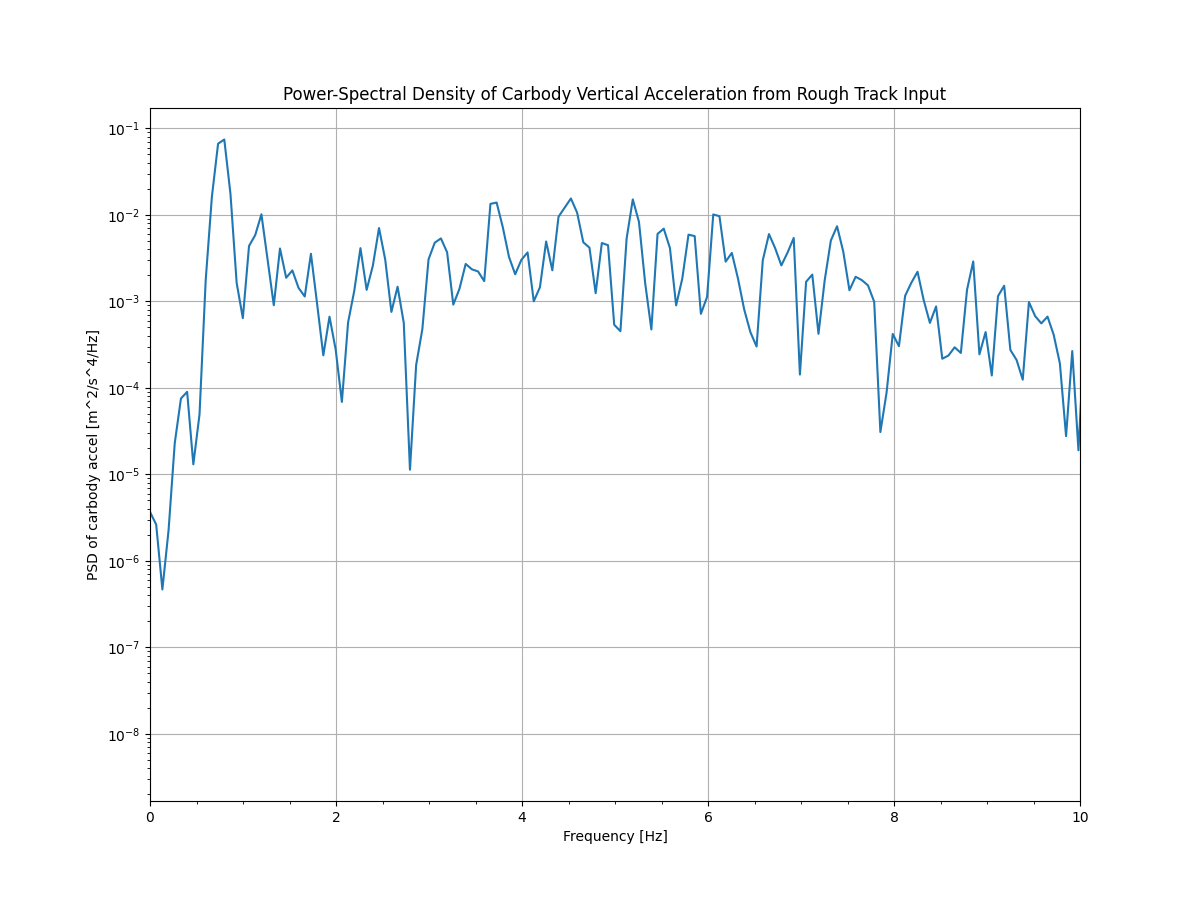
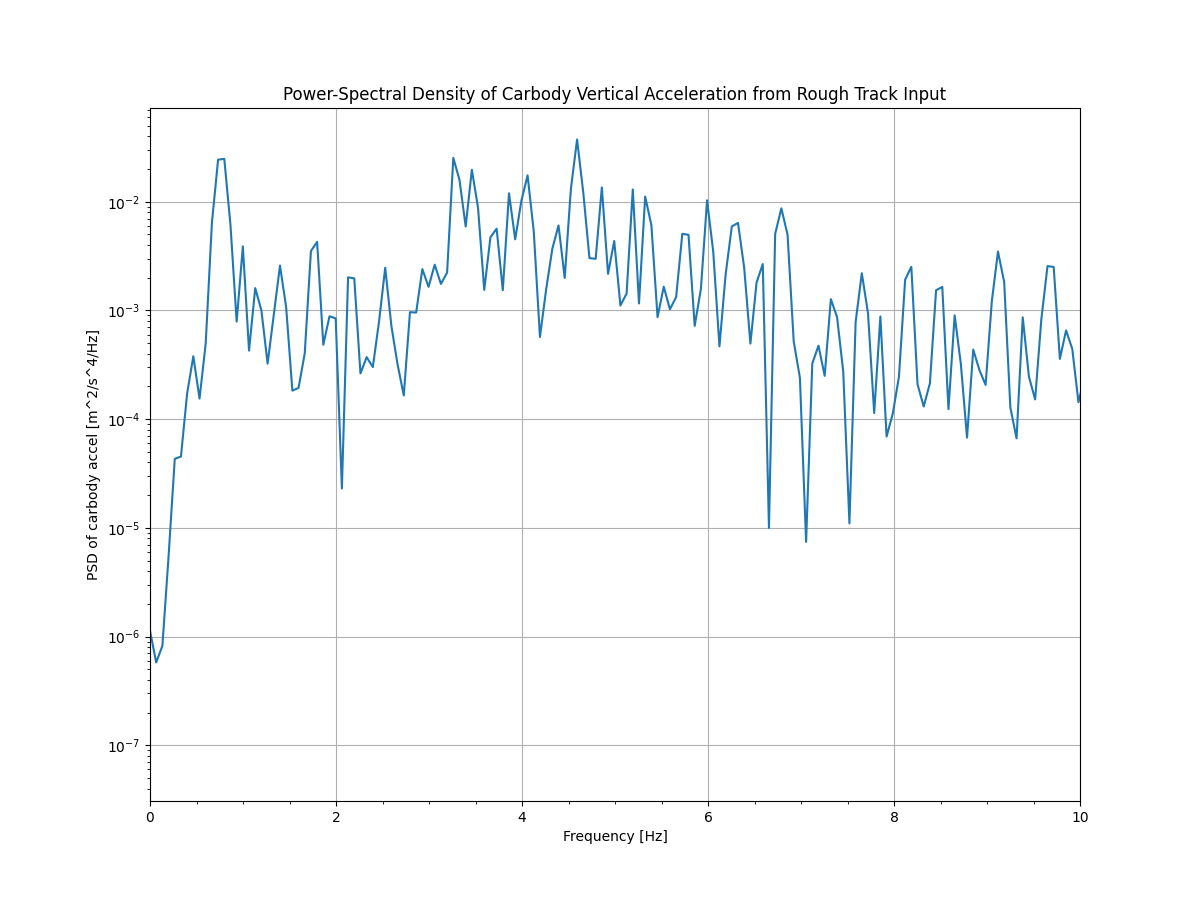
Completed Skyhook Control

diff --git a/src/simulation.py b/src/simulation.py
@@ -17,15 +17,20 @@ from scipy.signal import welch
 import numpy as np
 import scipy.signal as sig
 import matplotlib.pyplot as plt
-from model import A, B, b_1, M, C, K
+from model import A, B, b_1, M, C, K, l_R, assemble_A_matrix
 from track import step_input, sin_input, rough_input
+from controller import skyhook_damping_controller
 
-# Simulation Parameters
+
+# =====================================
+#         Simulation Parameters
+# =====================================
+
 x0 = np.zeros(14)
 
 start = 0 # [s]
 stop = 15 # [s]
-steps = 600
+steps = 1000
 time = np.linspace(start,stop,steps)
 
 # Step Input Parameters
@@ -52,16 +57,68 @@ freq_L, freq_R = 0.75, 0.75     # Left and Right frequencies [Hz]
 ### Uncomment below to use rough track response
 U = rough_input(time, start, stop)
 
-# Output Definitions
-C = np.eye(14)
-D = np.zeros((14,8))
 
-# State Space
-sys = sig.StateSpace(A,B,C,D)
-t, y, x = sig.lsim(sys, U, time)
+# # =====================================
+# #             State Space
+# # =====================================
+
+# # Output Definitions
+# C = np.eye(14)
+# D = np.zeros((14,8))
+
+# sys = sig.StateSpace(A,B,C,D)
+# t, y, x = sig.lsim(sys, U, time)
 
 
-# Solve for Acceleration
+# =====================================
+#             ODE-Solver
+# =====================================
+
+def rk4_step(f, t, x, dt): # Source - ChatGPT
+    k1 = f(t, x)
+    k2 = f(t + 0.5*dt, x + 0.5*dt*k1)
+    k3 = f(t + 0.5*dt, x + 0.5*dt*k2)
+    k4 = f(t + dt, x + dt*k3)
+    return x + (dt/6.0)*(k1 + 2*k2 + 2*k3 + k4)
+
+def make_u_t(time, U):
+    # simple linear interpolation for each input channel
+    def u_t(t):
+        return np.array([np.interp(t, time, U[:, j]) for j in range(U.shape[1])])
+    return u_t
+
+# Skyhook Simulator
+def simulate_skyhook(U, time=time, x0=x0):
+    u_t = make_u_t(time, U)
+
+    X = np.zeros((len(time), 14))
+    X[0] = x0
+
+    def xdot(t, x):
+        q_dot = x[7:]
+
+        C_sky = skyhook_damping_controller(q_dot)
+        A = assemble_A_matrix(C = C_sky)
+
+        x_dot = A @ x + B @ u_t(t)
+
+        return x_dot
+
+    for i in range(len(time) - 1):
+        dt = time[i + 1] - time[i]
+        X[i+1] = rk4_step(xdot, time[i], X[i], dt)
+
+    return X
+    
+x = simulate_skyhook(U)
+
+
+
+# ===============================
+#        RMS-Acceleration
+# ===============================
+
+# Solve for Vertical Acceleration
 q = x[:, 0:7]
 q_dot = x[:, 7:14]
 
@@ -69,33 +126,60 @@ x_dot = x @ A.T + U @ B.T
 q_ddot = x_dot[:, 7:14]
 a_z = q_ddot[:, 0]  
 
-# Get PSD and Plot
-fs = 1 / (t[1] - t[0])
+# Solve for Front Right Suspension Travel
+ds = (x[:, 0] + l_R * x[:, 1] + b_1 * x[:, 2]) - x[:, 3]
 
-f, Paa = welch(a_z, fs=fs, nperseg=4096, detrend='constant')
+
+# Solve for RMS Vertical Acceleration
+t0 = int(0.3 * steps)
+az_ss = a_z[t0:] # Start calculations after vibrations achieved steady state
+ds_ss = ds[t0:]
+
+az_rms = np.sqrt((1 / len(az_ss)) * np.mean(az_ss**2))
+ds_rms = np.sqrt((1 / len(ds_ss)) * np.mean(ds_ss**2))
+
+
+# Print RMS Acceleration and Suspension Travel
+print(f"RMS Carbody Vertical Acceleration: {az_rms:.4f} m/s²")
+print(f"RMS Suspension Travel: {ds_rms:.4f} m")
+
+
+
+# # ====================================
+# #            Get PSD Plot
+# # ====================================
+
+# fs = 1 / (t[1] - t[0])
+
+# f, Paa = welch(a_z, fs=fs, nperseg=4096, detrend='constant')
+
+# plt.figure(figsize=(12,9))
+# plt.semilogy(f, Paa)
+# plt.xlim(0, 10)     # rail vehicle comfort is low-frequency
+# plt.xlabel("Frequency [Hz]")
+# plt.ylabel("PSD of carbody accel [m^2/s^4/Hz]")
+# plt.title("Power-Spectral Density of Carbody Vertical Acceleration from Rough Track Input")
+# plt.minorticks_on()
+# plt.grid()
+# plt.savefig('figures/psd_az_3.png')
+# plt.show()
+
+
+
+# =====================================
+#           Plotting Solutions
+# =====================================
 
 plt.figure(figsize=(12,9))
-plt.semilogy(f, Paa)
-plt.xlim(0, 10)     # rail vehicle comfort is low-frequency
-plt.xlabel("Frequency [Hz]")
-plt.ylabel("PSD of carbody accel [m^2/s^4/Hz]")
-plt.title("Power-Spectral Density of Carbody Vertical Acceleration from Rough Track Input")
-plt.minorticks_on()
-plt.grid()
-plt.savefig('figures/psd_az_3.png')
-plt.show()
-
-
-# # General Plotting
-# plt.figure(figsize=(12,9))
-# plt.plot(t,y[:, 0], color='blue',linewidth = 3, label='Carbody Bounce')
-# # plt.plot(t,y[:, 1], color='green',linewidth = 3, label='Carbody Roll')
-# # plt.plot(t,y[:, 2], color='orange',linewidth = 3, label='Carbody Pitch')
-# # plt.plot(t,((y[:, 0] + b_1 * y[:, 2]) - y[:, 3]), color='red', linewidth = 3, label = 'Front Suspension Travel')
+# plt.plot(t,x[:, 0], color='blue',linewidth = 3, label='Carbody Bounce')
+# plt.plot(t,x[:, 1], color='green',linewidth = 3, label='Carbody Roll')
+# plt.plot(t,x[:, 2], color='orange',linewidth = 3, label='Carbody Pitch')
+# plt.plot(t,((x[:, 0] + b_1 * x[:, 2]) - x[:, 3]), color='red', linewidth = 3, label = 'Front Suspension Travel')
 # plt.plot(t,q_ddot[:, 0], color='yellow',linewidth = 3, label='Carbody Bounce Acceleration')
-# plt.title("Railcar Response")
-# plt.xlabel("Time [s]")
-# plt.ylabel("Y - Meters or Radians")
-# plt.legend()
-# plt.grid()
-# plt.show()
+plt.plot(time,x[:,0], color='purple', linewidth = 3, label = 'Carbody Bounce Acceleration - Skyhook')
+plt.title("Railcar Response")
+plt.xlabel("Time [s]")
+plt.ylabel("Y - Meters or Radians")
+plt.legend()
+plt.grid()
+plt.show()

diff --git a/src/model.py b/src/model.py
@@ -9,13 +9,16 @@ Author:
 Date:
     January 7, 2026
 
-Status: IN PROGRESS    
+Status: FINISHED
 
 """
 
 import numpy as np
 
-# Parameters
+
+# ==========================
+#         Parameters
+# ==========================
 
 v = 310*3600/1000 # Railcar velocity [m/s]
 # v = 800*3600/1000
@@ -40,12 +43,16 @@ c_sL1, c_sR1, c_sL2, c_sR2 = 2.0e4, 2.0e4, 2.0e4, 2.0e4 # Secondary suspension d
 z_gL1, z_gR1, z_gL2, z_gR2 = 0, 0, 0, 0 # Track irregularities at wheel-rail contacts [m]
 
 # Define Coordinates
-# x_c, phi_c, theta_c: Carbody vertical, roll, pitch
-# x_b1, phi_b1: Front bogie vertical, roll
-# x_b2, phi_b2: Rear bogie vertical, roll
-# q = [x_c, phi_c, theta_c, x_b1, phi_b1, x_b2, phi_b2]
+# z_c, phi_c, theta_c: Carbody vertical, roll, pitch
+# z_b1, phi_b1: Front bogie vertical, roll
+# z_b2, phi_b2: Rear bogie vertical, roll
+# q = [z_c, phi_c, theta_c, z_b1, phi_b1, z_b2, phi_b2]
 
-# Matrix Construction
+
+
+# ==============================
+#       Matrix Construction
+# ==============================
 
 M = np.array([[m_c, 0, 0, 0, 0, 0, 0],
               [0, I_cx, 0, 0, 0, 0, 0],
@@ -57,16 +64,17 @@ M = np.array([[m_c, 0, 0, 0, 0, 0, 0],
 
 M_inv = np.linalg.inv(M)
 
-C = np.array([[c_sL1 + c_sR1 + c_sL2 + c_sR2, -l_L*(c_sL1 + c_sL2) + l_R*(c_sR1 + c_sR2), b_1*(c_sL1 + c_sR1) - b_2*(c_sL2 + c_sR2), -(c_sL1 + c_sR1), c_sL1*l_L - c_sR1*l_R, -(c_sL2 + c_sR2), c_sL2*l_L - c_sR2*l_R],
-              [-l_L*(c_sL1 + c_sL2) + l_R*(c_sR1 + c_sR2), l_L**2*(c_sL1 + c_sL2) + l_R**2*(c_sR1 + c_sR2), b_1*(-l_L*c_sL1 + l_R*c_sR1) - b_2*(-l_L*c_sL2 + l_R*c_sR2), l_L*c_sL1 - l_R*c_sR1, -l_L**2*c_sL1 - l_R**2*c_sR1, l_L*c_sL2 - l_R*c_sR2, -l_L**2*c_sL2 - l_R**2*c_sR2],
-              [b_1*(c_sL1 + c_sR1) - b_2*(c_sL2 + c_sR2), b_1*(-l_L*c_sL1 + l_R*c_sR1) - b_2*(-l_L*c_sL2 + l_R*c_sR2), b_1**2*(c_sL1 + c_sR1) + b_2**2*(c_sL2 + c_sR2), -b_1*(c_sL1 + c_sR1), b_1*(l_L*c_sL1 - l_R*c_sR1), b_2*(c_sL2 + c_sR2), b_2*(l_L*c_sL2 - l_R*c_sR2)],
-              [-(c_sL1 + c_sR1), l_L*c_sL1 - c_sR1*l_R, -b_1*(c_sL1 + c_sR1), (c_sL1 + c_sR1 + c_pL1 + c_pR1), -l_L*(c_sL1+c_pL1) + l_R*(c_sR1 + c_pR1), 0, 0],
-              [c_sL1*l_L - c_sR1*l_R, -l_L**2*c_sL1 - l_R**2*c_sR1, b_1*(l_L*c_sL1 - l_R*c_sR1), -l_L*(c_sL1+c_pL1) + l_R*(c_sR1 + c_pR1), l_L**2*(c_sL1 + c_pL1) + l_R**2*(c_sR1 + c_pR1), 0, 0],
-              [-(c_sL2 + c_sR2), l_L*c_sL2 - c_sR2*l_R, b_2*(c_sL2 + c_sR2), 0, 0, (c_sL2 + c_sR2 + c_pL2 + c_pR2), -l_L*(c_sL2 + c_pL2) + l_R*(c_sR2 + c_pR2)],
-              [c_sL2*l_L - c_sR2*l_R, -l_L**2*c_sL2 - l_R**2*c_sR2, b_2*(l_L*c_sL2 - l_R*c_sR2), 0, 0, -l_L*(c_sL2 + c_pL2) + l_R*(c_sR2 + c_pR2), l_L**2*(c_sL2 + c_pL2) + l_R**2*(c_sR2 + c_pR2)]])
+def assemble_C_matrix(c_sL1=c_sL1, c_sR1=c_sR1, c_sL2=c_sL2, c_sR2=c_sR2):
+    C = np.array([[c_sL1 + c_sR1 + c_sL2 + c_sR2, -l_L*(c_sL1 + c_sL2) + l_R*(c_sR1 + c_sR2), b_1*(c_sL1 + c_sR1) - b_2*(c_sL2 + c_sR2), -(c_sL1 + c_sR1), c_sL1*l_L - c_sR1*l_R, -(c_sL2 + c_sR2), c_sL2*l_L - c_sR2*l_R],
+                [-l_L*(c_sL1 + c_sL2) + l_R*(c_sR1 + c_sR2), l_L**2*(c_sL1 + c_sL2) + l_R**2*(c_sR1 + c_sR2), b_1*(-l_L*c_sL1 + l_R*c_sR1) - b_2*(-l_L*c_sL2 + l_R*c_sR2), l_L*c_sL1 - l_R*c_sR1, -l_L**2*c_sL1 - l_R**2*c_sR1, l_L*c_sL2 - l_R*c_sR2, -l_L**2*c_sL2 - l_R**2*c_sR2],
+                [b_1*(c_sL1 + c_sR1) - b_2*(c_sL2 + c_sR2), b_1*(-l_L*c_sL1 + l_R*c_sR1) - b_2*(-l_L*c_sL2 + l_R*c_sR2), b_1**2*(c_sL1 + c_sR1) + b_2**2*(c_sL2 + c_sR2), -b_1*(c_sL1 + c_sR1), b_1*(l_L*c_sL1 - l_R*c_sR1), b_2*(c_sL2 + c_sR2), b_2*(l_L*c_sL2 - l_R*c_sR2)],
+                [-(c_sL1 + c_sR1), l_L*c_sL1 - c_sR1*l_R, -b_1*(c_sL1 + c_sR1), (c_sL1 + c_sR1 + c_pL1 + c_pR1), -l_L*(c_sL1+c_pL1) + l_R*(c_sR1 + c_pR1), 0, 0],
+                [c_sL1*l_L - c_sR1*l_R, -l_L**2*c_sL1 - l_R**2*c_sR1, b_1*(l_L*c_sL1 - l_R*c_sR1), -l_L*(c_sL1+c_pL1) + l_R*(c_sR1 + c_pR1), l_L**2*(c_sL1 + c_pL1) + l_R**2*(c_sR1 + c_pR1), 0, 0],
+                [-(c_sL2 + c_sR2), l_L*c_sL2 - c_sR2*l_R, b_2*(c_sL2 + c_sR2), 0, 0, (c_sL2 + c_sR2 + c_pL2 + c_pR2), -l_L*(c_sL2 + c_pL2) + l_R*(c_sR2 + c_pR2)],
+                [c_sL2*l_L - c_sR2*l_R, -l_L**2*c_sL2 - l_R**2*c_sR2, b_2*(l_L*c_sL2 - l_R*c_sR2), 0, 0, -l_L*(c_sL2 + c_pL2) + l_R*(c_sR2 + c_pR2), l_L**2*(c_sL2 + c_pL2) + l_R**2*(c_sR2 + c_pR2)]])
+    return C
 
-
-
+C = assemble_C_matrix()
 
 # Create K matrix similarly, changing c's to k's
 K = np.array([[k_sL1 + k_sR1 + k_sL2 + k_sR2, -l_L*(k_sL1 + k_sL2) + l_R*(k_sR1 + k_sR2), b_1*(k_sL1 + k_sR1) - b_2*(k_sL2 + k_sR2), -(k_sL1 + k_sR1), k_sL1*l_L - k_sR1*l_R, -(k_sL2 + k_sR2), k_sL2*l_L - k_sR2*l_R],
@@ -85,7 +93,6 @@ G_z_dot = np.array([[0,0,0,0],
               [-l_L*c_pL1,l_R*c_pR1,0,0],
               [0,0,c_pL2,c_pR2],
               [0,0,-l_L*c_pL2,l_R*c_pR2]])
-
 
 G_z = np.array([[0,0,0,0],
               [0,0,0,0],
@@ -135,3 +142,4 @@ def assemble_B_matrix(M_inv=M_inv,G_z=G_z,G_z_dot=G_z_dot):
     return B
 
 B = assemble_B_matrix()
+

diff --git a/src/controller.py b/src/controller.py
@@ -12,23 +12,83 @@ Status: IN PROGRESS
 
 """
 
+import numpy as np
+from model import c_sL1, b_1, b_2, l_L, l_R, assemble_C_matrix
+
+default_c = c_sL1
+
 # Passive Damping Controller
 def passive_damping_controller():
     """
-    Passive damping controller for secondary suspension.
+    Description:
+        Passive damping controller for secondary suspension.
     
     Returns:
         dict: Damping coefficients for left and right secondary suspensions
     """
     # Fixed damping coefficients (Ns/m)
-    c_sL1 = 1.0e4
-    c_sR1 = 1.0e4
-    c_sL2 = 1.0e4
-    c_sR2 = 1.0e4
-    
+    c_sL1 = 2.0e4
+    c_sR1 = 2.0e4
+    c_sL2 = 2.0e4
+    c_sR2 = 2.0e4
+
     return {
         'c_sL1': c_sL1,
         'c_sR1': c_sR1,
         'c_sL2': c_sL2,
         'c_sR2': c_sR2
     }
+
+# Skyhook Damping Controller
+def skyhook_damping_controller(q_dot):
+    """
+    Description:
+        Semi-active damping controller for secondary suspension.
+
+    Parameters:
+        q_dot = Velocities of each of the seven degrees of freedom - Index 7-14 in state vector
+
+    Returns:
+        dict: Damping coefficients for left and right secondary suspensions
+    """
+
+    # Max and Min Damping Coefficients
+    c_max = default_c * 5
+    c_min = default_c * 0.1
+
+    # Decompose q_dot
+    zd_c = q_dot[0]
+    phid_c = q_dot[1]
+    thetad_c = q_dot[2]
+    zd_b1 = q_dot[3]
+    phid_b1 = q_dot[4]
+    zd_b2 = q_dot[5]
+    phid_b2 = q_dot[6]
+
+
+    # Front Right Secondary Damper
+    if ((zd_c + b_1*thetad_c + l_R*phid_c)*((zd_c + b_1*thetad_c + l_R*phid_c) - (zd_b1 + l_R*phid_b1))) >= 0:
+        c_sL1 = c_max
+    else:
+        c_sL1 = c_min
+
+    # Front Left Secondary Damper
+    if ((zd_c + b_1*thetad_c - l_L*phid_c)*((zd_c + b_1*thetad_c - l_L*phid_c) - (zd_b1 - l_L*phid_b1))) >= 0:
+        c_sR1 = c_max
+    else:
+        c_sR1 = c_min
+
+    # Rear Right Secondary Damper
+    if ((zd_c - b_2*thetad_c + l_R*phid_c)*((zd_c - b_2*thetad_c + l_R*phid_c) - (zd_b2 + l_R*phid_b2))) >= 0:
+        c_sL2 = c_max
+    else:
+        c_sL2 = c_min
+
+    # Rear Left Secondary Damper
+    if ((zd_c - b_2*thetad_c - l_L*phid_c)*((zd_c - b_2*thetad_c - l_L*phid_c) - (zd_b2 - l_L*phid_b2))) >= 0:
+        c_sR2 = c_max
+    else:
+        c_sR2 = c_min
+
+    C_sky = assemble_C_matrix(c_sL1=c_sL1, c_sR1=c_sR1, c_sL2=c_sL2, c_sR2=c_sR2)
+    return C_sky

diff --git a/src/debug.py b/src/debug.py
@@ -31,6 +31,8 @@ omega_n = np.sqrt(np.real(eigvals))
 freq_hz = omega_n / (2*np.pi)
 
 print(freq_hz)
+print('\n')
+print(eigvecs)
 
 # for i in range(len(eigvals)):
 #     print(truncate(freq_hz[i], 3), eigvecs[i])

diff --git a/src/ode_test.py b/src/ode_test.py
@@ -40,7 +40,7 @@ solution = solve_ivp(
     args=(f,),
     rtol=1e-4,
     atol=1e-7,
-    max_step=1e-2,     # start here
+    max_step=1e-2,
     first_step=1e-4
 )
 

diff --git a/src/track.py b/src/track.py
@@ -8,7 +8,7 @@ Author: Benjamin Sauer
 Date:
     January 7th, 2026
 
-Status: IN PROGRESS
+Status: FINISHED
 
 """
 
